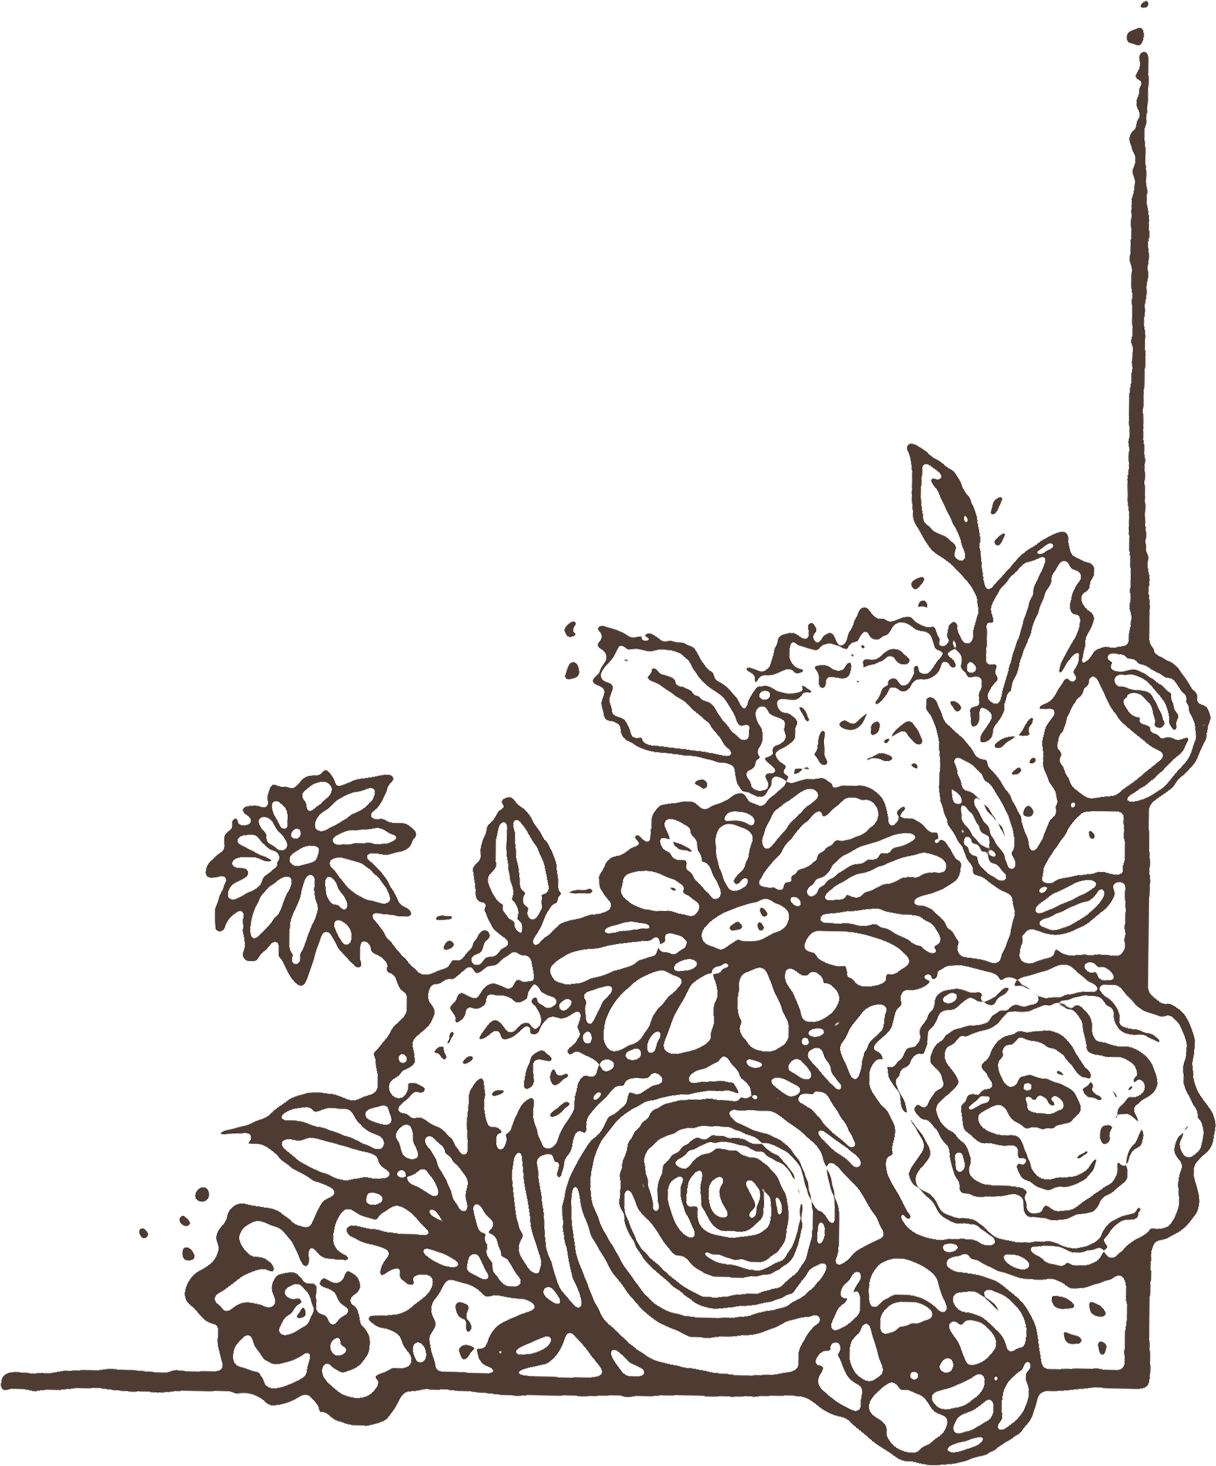
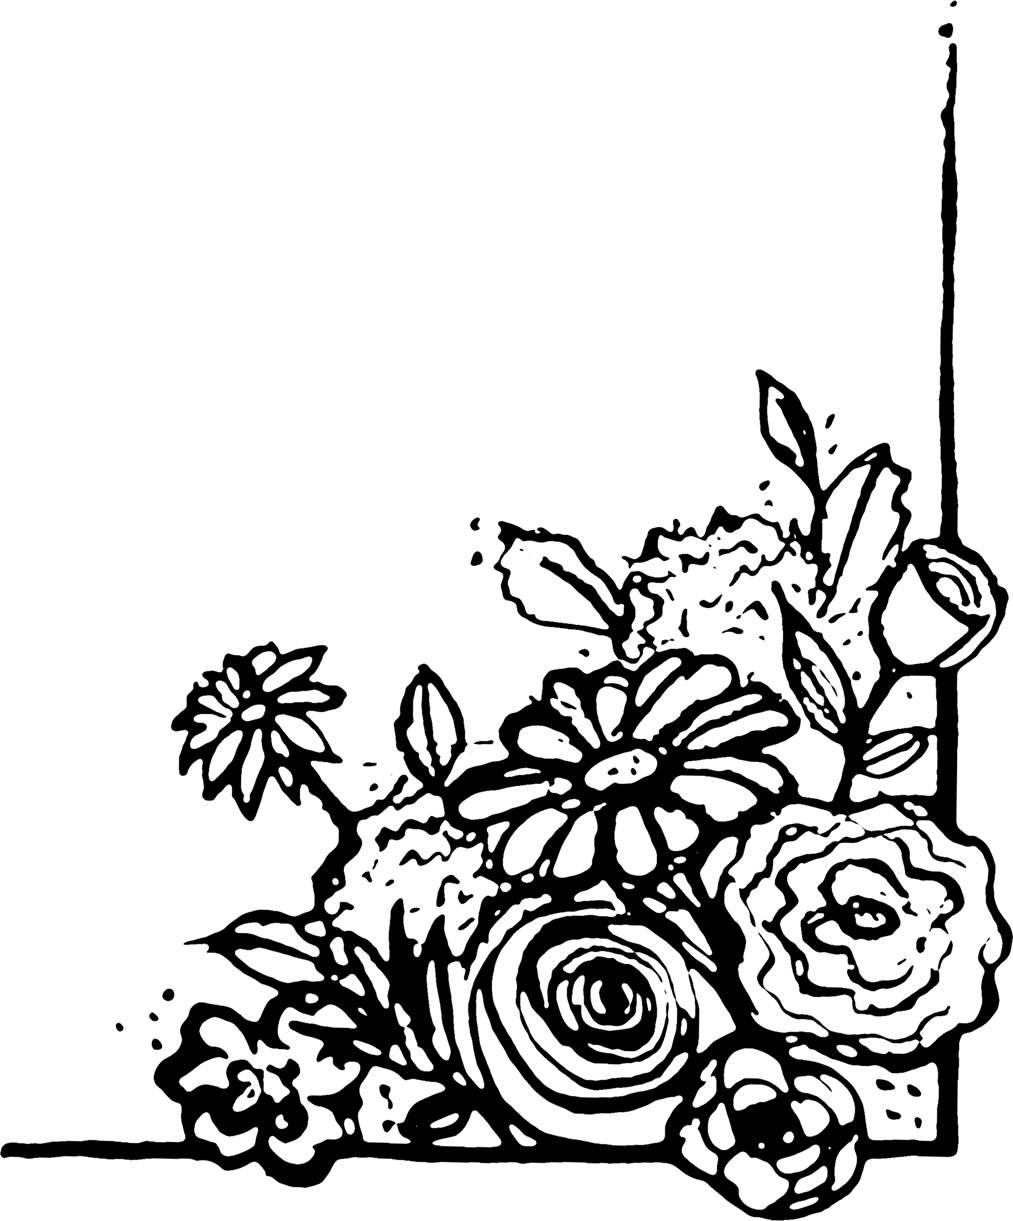
flowers and other edits

Changed region(s): [[0.0, 0.0, 1.0, 1.0]]

diff --git a/style.css b/style.css
@@ -8,6 +8,7 @@ body {
     display: flex;
     align-items: center;
     justify-content: center;
+    position: relative;
 }
 
 .main-text {
@@ -31,6 +32,35 @@ body {
 
 .names>div>p:first-child {
     margin-bottom: 0.5em;
+}
+
+.flowers {
+    position: absolute;
+    opacity: 0.7;
+}
+
+.upper-left {
+    top: 0;
+    left: 0;
+    width: 21%;
+    min-width: 120px;
+    max-width: 260px;
+}
+.lower-right {
+    bottom: 0;
+    right: 0;
+    width: 27%;
+    min-width: 150px;
+    max-width: 290px;
+}
+
+.colored-png-container {
+  overflow: hidden;
+}
+
+.colored-png-container img {  
+  filter: drop-shadow(0px 10000px 0 #5d5442);
+  transform: translateY(-10000px);
 }
 
 
@@ -94,7 +124,9 @@ body, a {
 p {
   margin: 0;
   margin-bottom: 0.2em;
-  line-height: 1.4;
+}
+p, a {
+    line-height: 1.4;
 }
 .small{
     font-size: 80%;

diff --git a/index.html b/index.html
@@ -15,6 +15,12 @@
 <body>
     <!-- <p>Σας προσκαλούμε στη βάπτιση της κόρης μας την Κυριακή 27 Σεπτεμβρίου 2026 και ώρα 18:00 στον Ιερό Ναό Αγίου Νικολάου Ριγίλλης, πίσω από το Ωδείο Αθηνών</p> -->
     <div class="main-text-wrapper centered">
+        <div class="colored-png-container">
+            <img src="20260619_235251.png" class="flowers upper-left">
+        </div>
+        <div class="colored-png-container">
+            <img src="20260619_235255.png" class="flowers lower-right colored-png-container">
+        </div>
         <div class="main-text arima-600">
             <div>
                 <p>Σας προσκαλούμε στη βάπτιση της κόρης μας</p>
@@ -44,17 +50,10 @@
     <div class="rest-content-wrapper centered">
         <p class="small">
             Η πρόσβαση γίνεται με τα πόδια από την πύλη οχημάτων του Ωδείου Αθηνών στην οδό Ριγίλλης.<br>
-            ο Ναός απέχει περίπου 10 λεπτά με τα πόδια από τον σταθμό του μετρό Ευαγγελισμός. <br>
-            Αν έρχεστε με αυτοκίνητο, μπορείτε να παρκάρετε στο Polis Park (Ριζάρη). Το παρκάρισμα μετά την πύλη του
-            Ωδείου δεν επιτρέπεται.
+            Οι θέσεις στάθμευσης μετά την πύλη ανήκουν στο Ωδείο. Αν έρχεστε με αυτοκίνητο, μπορείτε να παρκάρετε στο
+            Polis Park (Ριζάρη).<br>
+            Η εκκλησία απέχει περίπου 10 λεπτά με τα πόδια από τον σταθμό του μετρό Ευαγγελισμός.
         </p>
-        <div class="map-wrapper">
-            <iframe id="map-iframe"
-                src="https://www.google.com/maps/d/embed?mid=13lQC8WE2nfQ4bJls-IufrOvFgec_RoA&ehbc=2E312F&noprof=1"
-                width="800" height="480" style="max-width:100%;"></iframe>
-        </div>
-
-        <p class="small">Επικοινωνία</p>
         <div class="contact-person">
             <p>Φλώρα</p>
             <a href="tel:[phone redacted]">[phone redacted]</a>
@@ -64,6 +63,11 @@
             <p>Τηλέμαχος</p>
             <a href="tel:[phone redacted]">[phone redacted]</a>
             <!-- <a href="mailto:[email redacted]">[email redacted]</a> -->
+        </div>
+        <div class="map-wrapper">
+            <iframe id="map-iframe"
+                src="https://www.google.com/maps/d/embed?mid=13lQC8WE2nfQ4bJls-IufrOvFgec_RoA&ehbc=2E312F&noprof=1"
+                width="800" height="480" style="max-width:100%;"></iframe>
         </div>
     </div>
 </body>
@@ -93,4 +97,5 @@
         setMapHeight();
     })();
 </script>
+
 </html>